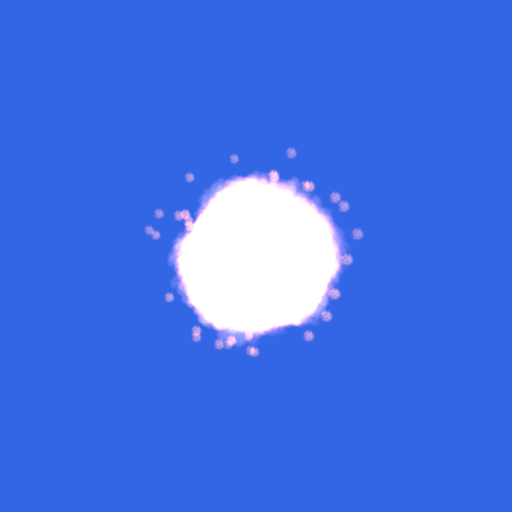
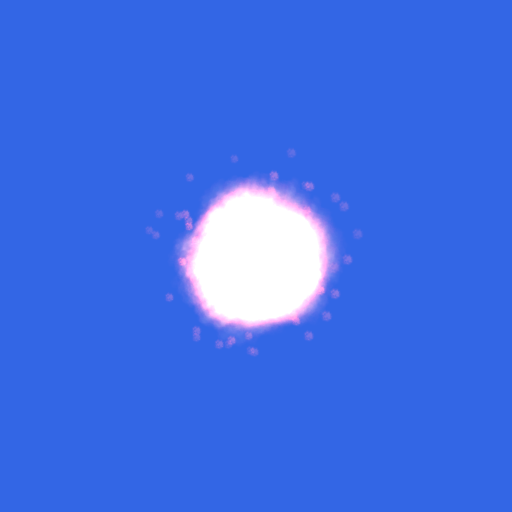
fix: honor EE2 particle blend factors per system

Changed region(s): [[0.2812, 0.2812, 0.7188, 0.7188], [0.5625, 0.2812, 0.5938, 0.3125], [0.3438, 0.3438, 0.375, 0.375]]

diff --git a/test/Panopticon.Simulation.Tests/Content/Importing/ImportedParticleEffectMaterializerTests.cs b/test/Panopticon.Simulation.Tests/Content/Importing/ImportedParticleEffectMaterializerTests.cs
@@ -178,7 +178,7 @@ public class ImportedParticleEffectMaterializerTests
 
         // Alpha flags fold into the alpha curve; the shader stays additive (EE2 fx textures
         // carry no usable source alpha for SrcAlpha blending).
-        Assert.Equal(ParticleSystemShader.Additive, template.Shader);
+        Assert.Equal(ParticleSystemShader.Alpha, template.Shader);
 
         var volume = Assert.IsType<FXParticleEmissionVolumeBox>(template.EmissionVolume);
         Assert.Equal(1.5f * FeetPerMeter, volume.HalfSize.X, 4);
@@ -318,6 +318,17 @@ public class ImportedParticleEffectMaterializerTests
         return new ImportedParticleEffect("fx_proof", systems, Array.Empty<string>());
     }
 
+    [Fact]
+    public void SourceColorAdditiveUsesItsOwnBlendPipeline()
+    {
+        var effect = CreateEffect(CreateSystem("glow", alphaBlended: true,
+            blendMode: ImportedParticleBlendMode.SourceColorAdditive));
+
+        var template = Assert.Single(ImportedParticleEffectMaterializer.Materialize(effect).Systems).Template;
+
+        Assert.Equal(ParticleSystemShader.SourceColorAdditive, template.Shader);
+    }
+
     private static ImportedParticleSystem CreateSystem(
         string name,
         ImportedParticleVelocity? velocity = null,
@@ -332,7 +343,8 @@ public class ImportedParticleEffectMaterializerTests
         IReadOnlyList<ImportedParticleAlphaKey>? alphaKeys = null,
         string? textureName = "smoke.tga",
         bool alphaBlended = false,
-        Matrix4x4 localTransform = default)
+        Matrix4x4 localTransform = default,
+        ImportedParticleBlendMode? blendMode = null)
     {
         localTransform = localTransform == default ? Matrix4x4.Identity : localTransform;
 
@@ -354,6 +366,7 @@ public class ImportedParticleEffectMaterializerTests
             alphaKeys: alphaKeys ?? Array.Empty<ImportedParticleAlphaKey>(),
             textureName: textureName,
             materialName: "SmokeMaterial",
-            alphaBlended: alphaBlended);
+            alphaBlended: alphaBlended,
+            blendMode: blendMode);
     }
 }

diff --git a/src/Panopticon.Simulation/Content/Importing/Nif/NifParticleEffectConverter.cs b/src/Panopticon.Simulation/Content/Importing/Nif/NifParticleEffectConverter.cs
@@ -113,6 +113,7 @@ internal static class NifParticleEffectConverter
         var textureName = ResolveTextureName(file, particles);
         var materialName = ResolveMaterialName(file, particles);
         var alphaBlended = IsAlphaBlended(file, particles);
+        var blendMode = ResolveBlendMode(file, particles);
 
         var alphaKeys = CollectAlphaKeys(file, effectName, index, particles, controller);
 
@@ -134,7 +135,8 @@ internal static class NifParticleEffectConverter
             alphaKeys,
             textureName,
             materialName,
-            alphaBlended);
+            alphaBlended,
+            blendMode);
     }
 
     private static ImportedParticleVelocity ConvertVelocity(NifParticleSystemController controller)
@@ -307,6 +309,29 @@ internal static class NifParticleEffectConverter
         }
 
         return false;
+    }
+
+    private static ImportedParticleBlendMode ResolveBlendMode(NifFile file, NifParticles particles)
+    {
+        foreach (var reference in particles.PropertyReferences)
+        {
+            if (file.Blocks[reference] is not NifAlphaProperty alpha || (alpha.Flags & 1) == 0)
+            {
+                continue;
+            }
+
+            var source = (alpha.Flags >> 1) & 0xF;
+            var destination = (alpha.Flags >> 5) & 0xF;
+            return (source, destination) switch
+            {
+                (6, 7) => ImportedParticleBlendMode.Alpha,
+                (2, 0) => ImportedParticleBlendMode.SourceColorAdditive,
+                _ => throw new NotSupportedException(
+                    $"NiParticles '{particles.Name}' uses unsupported blend factors {source}/{destination}."),
+            };
+        }
+
+        return ImportedParticleBlendMode.Additive;
     }
 
     private static List<ImportedParticleAlphaKey> CollectAlphaKeys(

diff --git a/test/Panopticon.Simulation.Tests/Content/Importing/NifParticleEffectConverterTests.cs b/test/Panopticon.Simulation.Tests/Content/Importing/NifParticleEffectConverterTests.cs
@@ -229,9 +229,33 @@ public sealed class NifParticleEffectConverterTests
         var system = Convert(Read(builder.Build())).Systems[0];
 
         Assert.True(system.AlphaBlended);
+        Assert.Equal(ImportedParticleBlendMode.Alpha, system.BlendMode);
         Assert.Equal(2, system.AlphaKeys.Count);
         Assert.Equal(new ImportedParticleAlphaKey(0.0f, 1.0f), system.AlphaKeys[0]);
         Assert.Equal(new ImportedParticleAlphaKey(2.0f, 0.0f), system.AlphaKeys[1]);
+    }
+
+    [Theory]
+    [InlineData((ushort)4613, ImportedParticleBlendMode.SourceColorAdditive)]
+    [InlineData((ushort)4845, ImportedParticleBlendMode.Alpha)]
+    public void PreservesNifBlendFactors(ushort flags, ImportedParticleBlendMode expected)
+    {
+        var builder = new NifTestDataBuilder();
+        var nodeType = builder.AddBlockType("NiNode");
+        var particlesType = builder.AddBlockType("NiParticles");
+        var particlesDataType = builder.AddBlockType("NiParticlesData");
+        var controllerType = builder.AddBlockType("NiParticleSystemController");
+        var alphaPropertyType = builder.AddBlockType("NiAlphaProperty");
+
+        builder.AddBlock(nodeType, NifTestBlocks.Node(name: "root", children: [1]));
+        builder.AddBlock(particlesType, NifTestGeometry.Shape(
+            name: "sparks", data: 2, controller: 3, properties: [4]));
+        builder.AddBlock(particlesDataType, NifParticleTests.ParticlesData());
+        builder.AddBlock(controllerType, NifParticleTests.ParticleSystemController(target: 1, emitter: 0));
+        builder.AddBlock(alphaPropertyType, AlphaPropertyWithController(controller: -1, flags: flags));
+        builder.AddTrailing(NifTestBlocks.Footer());
+
+        Assert.Equal(expected, Convert(Read(builder.Build())).Systems[0].BlendMode);
     }
 
     [Fact]

diff --git a/src/Panopticon.Tools.TestHarness/Ee2ParticleProofScenario.cs b/src/Panopticon.Tools.TestHarness/Ee2ParticleProofScenario.cs
@@ -74,17 +74,17 @@ internal static class Ee2ParticleProofScenario
             "main battle tank at the fixed three-quarter yaw; the first burst's puffs are " +
             "sub-pixel because every muzzle system grows from size zero"),
         ("fx_muzzle_tank", 0.5f,
-            "small smoke puffs (tens of px) at the resolved tag_muzzle_1 firing tag at the barrel tip; " +
-            "the tank itself unchanged"),
+            "alpha-blended muzzle puffs near tag_muzzle_1; much of the effect is occluded " +
+            "by the barrel at this proof camera angle"),
         ("fx_muzzle_tank", 1f,
-            "puffs grown larger (grow windows 0.33-1.25 s at EffectScale 0.05) and spread " +
-            "along the muzzle axis; still additive and anchored at the barrel"),
+            "faint translucent puffs near the barrel tip; the firing tag remains inset " +
+            "from the visible barrel end and the barrel occludes much of the effect"),
         ("fx_watersplash_1", 0f,
             "single small seed quad (~20 px) at the fixed splash origin: the first particle " +
             "of the 15/s column system"),
         ("fx_watersplash_1", 0.5f,
-            "centered spray column of overlapping additive quads (mature sizes ~85 px at " +
-            "this camera); clearly denser and wider than 0000"),
+            "centered spray column of alpha-blended, feathered quads; no opaque square " +
+            "around the spray"),
         ("fx_watersplash_1", 1f,
             "column larger and brighter than 0500: the late systems (emission start 0.5 s, " +
             "lifetimes up to 2.67 s) are now dominant and still growing"),

diff --git a/src/Panopticon.Simulation/Graphics/Shaders/ParticleShaderResources.cs b/src/Panopticon.Simulation/Graphics/Shaders/ParticleShaderResources.cs
@@ -13,6 +13,7 @@ internal sealed class ParticleShaderResources : ShaderSetBase
 {
     private readonly Pipeline _alphaPipeline;
     private readonly Pipeline _additivePipeline;
+    private readonly Pipeline _sourceColorAdditivePipeline;
 
     private readonly ConstantBuffer<ParticleConstantsVS> _particleConstantsBufferIsGroundAlignedFalse;
     private readonly ConstantBuffer<ParticleConstantsVS> _particleConstantsBufferIsGroundAlignedTrue;
@@ -38,6 +39,7 @@ internal sealed class ParticleShaderResources : ShaderSetBase
 
         _alphaPipeline = CreatePipeline(BlendStateDescription.SingleAlphaBlend);
         _additivePipeline = CreatePipeline(BlendStateDescriptionUtility.SingleAdditiveBlendNoAlpha);
+        _sourceColorAdditivePipeline = CreatePipeline(BlendStateDescriptionUtility.SingleSourceColorAdditiveBlend);
 
         ConstantBuffer<ParticleConstantsVS> CreateParticleConstantsBuffer(bool isGroundAligned)
         {
@@ -77,6 +79,7 @@ internal sealed class ParticleShaderResources : ShaderSetBase
                 ParticleSystemShader.Alpha => _alphaPipeline,
                 ParticleSystemShader.AlphaTest => _alphaPipeline, // TODO: Proper implementation
                 ParticleSystemShader.Additive => _additivePipeline,
+                ParticleSystemShader.SourceColorAdditive => _sourceColorAdditivePipeline,
                 _ => throw new ArgumentOutOfRangeException(nameof(template)),
             };
 

diff --git a/test/Panopticon.Simulation.Tests/Content/Importing/Ee2ParticleEffectInventoryTests.cs b/test/Panopticon.Simulation.Tests/Content/Importing/Ee2ParticleEffectInventoryTests.cs
@@ -262,6 +262,28 @@ public sealed class Ee2ParticleEffectInventoryTests
     }
 
     [Fact]
+    public void ProofEffectsPreservePerSystemBlendModes()
+    {
+        using var archive = OpenArchive(GraphicsArchiveRelativePath);
+        foreach (var (name, _, _) in ProofEffects)
+        {
+            using var stream = new MemoryStream(ReadEntry(archive, $"cache/nifcache/{name}.nifcache"));
+            var effect = NifParticleEffectConverter.Convert(NifFile.Read(stream), name)!;
+
+            Assert.NotEmpty(effect.Systems);
+            if (name == "fx_watersplash_1")
+            {
+                Assert.All(effect.Systems, system => Assert.Equal(ImportedParticleBlendMode.Alpha, system.BlendMode));
+            }
+            if (name == "fx_muzzle_tank")
+            {
+                Assert.Contains(effect.Systems, system => system.BlendMode == ImportedParticleBlendMode.Alpha);
+                Assert.Contains(effect.Systems, system => system.BlendMode == ImportedParticleBlendMode.SourceColorAdditive);
+            }
+        }
+    }
+
+    [Fact]
     public void MuzzleBindingTargetsFiringTagNotGeometry()
     {
         var root = InstallRoot();

diff --git a/src/Panopticon.Simulation/Content/Importing/ImportedParticleSystem.cs b/src/Panopticon.Simulation/Content/Importing/ImportedParticleSystem.cs
@@ -127,6 +127,8 @@ public sealed class ImportedParticleSystem
     /// <summary>True when the source carried an NiAlphaProperty with blending enabled.</summary>
     public bool AlphaBlended { get; }
 
+    public ImportedParticleBlendMode BlendMode { get; }
+
     public ImportedParticleSystem(
         string name,
         Matrix4x4 localTransform,
@@ -145,7 +147,8 @@ public sealed class ImportedParticleSystem
         IReadOnlyList<ImportedParticleAlphaKey> alphaKeys,
         string? textureName,
         string? materialName,
-        bool alphaBlended)
+        bool alphaBlended,
+        ImportedParticleBlendMode? blendMode = null)
     {
         if (string.IsNullOrEmpty(name))
         {
@@ -255,6 +258,7 @@ public sealed class ImportedParticleSystem
         TextureName = textureName;
         MaterialName = materialName;
         AlphaBlended = alphaBlended;
+        BlendMode = blendMode ?? (alphaBlended ? ImportedParticleBlendMode.Alpha : ImportedParticleBlendMode.Additive);
     }
 
     private static bool IsFinite(in Matrix4x4 m) =>

diff --git a/src/Panopticon.Simulation/Graphics/StateDescriptions.cs b/src/Panopticon.Simulation/Graphics/StateDescriptions.cs
@@ -27,6 +27,23 @@ internal static class RasterizerStateDescriptionUtility
 
 internal static class BlendStateDescriptionUtility
 {
+    public static readonly BlendStateDescription SingleSourceColorAdditiveBlend = new BlendStateDescription
+    {
+        AttachmentStates = new[]
+        {
+            new BlendAttachmentDescription
+            {
+                BlendEnabled = true,
+                SourceColorFactor = BlendFactor.SourceColor,
+                DestinationColorFactor = BlendFactor.One,
+                ColorFunction = BlendFunction.Add,
+                SourceAlphaFactor = BlendFactor.One,
+                DestinationAlphaFactor = BlendFactor.One,
+                AlphaFunction = BlendFunction.Add,
+            }
+        }
+    };
+
     public static readonly BlendStateDescription SingleAdditiveBlendNoAlpha = new BlendStateDescription
     {
         AttachmentStates = new[]

diff --git a/src/Panopticon.Simulation/Content/Loaders/ImportedParticleEffectMaterializer.cs b/src/Panopticon.Simulation/Content/Loaders/ImportedParticleEffectMaterializer.cs
@@ -71,10 +71,12 @@ internal static class ImportedParticleEffectMaterializer
         {
             IsOneShot = true,
 
-            // EE2 fx textures are cooked additive-style (grayscale art on black); their DXT1
-            // texcaches carry no source alpha, so SrcAlpha blending would draw the black
-            // background as opaque quads. Composite additively like the source game.
-            Shader = ParticleSystemShader.Additive,
+            Shader = system.BlendMode switch
+            {
+                ImportedParticleBlendMode.Alpha => ParticleSystemShader.Alpha,
+                ImportedParticleBlendMode.SourceColorAdditive => ParticleSystemShader.SourceColorAdditive,
+                _ => ParticleSystemShader.Additive,
+            },
         };
 
         template.ParticleTexture = textureResolver is not null

diff --git a/src/Panopticon.Simulation/Graphics/ParticleSystems/ParticleSystemTemplate.cs b/src/Panopticon.Simulation/Graphics/ParticleSystems/ParticleSystemTemplate.cs
@@ -547,6 +547,8 @@ public enum ParticleSystemShader
 
     [IniEnum("W3D_DIFFUSE"), AddedIn(SageGame.Bfme)]
     W3dDiffuse,
+
+    SourceColorAdditive,
 }
 
 public enum ParticleSystemType

diff --git a/src/Panopticon.Simulation/Content/Importing/ImportedParticleBlendMode.cs b/src/Panopticon.Simulation/Content/Importing/ImportedParticleBlendMode.cs
@@ -1,0 +1,8 @@
+namespace Panopticon.Content.Importing;
+
+public enum ImportedParticleBlendMode
+{
+    Additive,
+    Alpha,
+    SourceColorAdditive,
+}

diff --git a/src/Panopticon.Tools.TestHarness/ee2-particle-proof/validation_guide.md b/src/Panopticon.Tools.TestHarness/ee2-particle-proof/validation_guide.md
@@ -28,8 +28,8 @@ the draws that read them (stale world matrices on some meshes).
 - `fx_explosion_1-particle-0500.png`: additive fireball ~180 px wide at the origin with a rim of ~10-20 px sparks; first system (0.5 s lifetime) already dead, second system at full intensity
 - `fx_explosion_1-particle-1000.png`: dissipating smoke ring ~260 px at half the peak intensity; second system's particles (1 s lifetime, emission stop 0.225 s) in their final frames
 - `fx_muzzle_tank-particle-0000.png`: main battle tank at the fixed three-quarter yaw; the first burst's puffs are sub-pixel because every muzzle system grows from size zero
-- `fx_muzzle_tank-particle-0500.png`: small smoke puffs (tens of px) at the resolved tag_muzzle_1 firing tag at the barrel tip; the tank itself unchanged
-- `fx_muzzle_tank-particle-1000.png`: puffs grown larger (grow windows 0.33-1.25 s at EffectScale 0.05) and spread along the muzzle axis; still additive and anchored at the barrel
+- `fx_muzzle_tank-particle-0500.png`: alpha-blended muzzle puffs near tag_muzzle_1; much of the effect is occluded by the barrel at this proof camera angle
+- `fx_muzzle_tank-particle-1000.png`: faint translucent puffs near the barrel tip; the firing tag remains inset from the visible barrel end and the barrel occludes much of the effect
 - `fx_watersplash_1-particle-0000.png`: single small seed quad (~20 px) at the fixed splash origin: the first particle of the 15/s column system
-- `fx_watersplash_1-particle-0500.png`: centered spray column of overlapping additive quads (mature sizes ~85 px at this camera); clearly denser and wider than 0000
+- `fx_watersplash_1-particle-0500.png`: centered spray column of alpha-blended, feathered quads; no opaque square around the spray
 - `fx_watersplash_1-particle-1000.png`: column larger and brighter than 0500: the late systems (emission start 0.5 s, lifetimes up to 2.67 s) are now dominant and still growing
